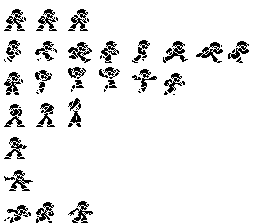
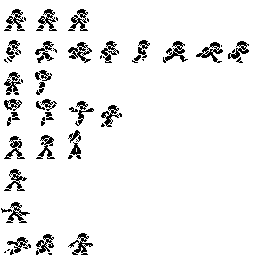
Improved jumping, character animation & added basic gravity flipping

diff --git a/Source/level.c b/Source/level.c
@@ -42,8 +42,8 @@ Level_t *level_load(const char *aFilename)
 	}
 
 	const char *bgmPath = tmx_mapGetPropertyNamed(map, "BGM");
-	if(bgmPath)
-		out->bgm = sound_load(bgmPath);
+	//if(bgmPath)
+		//out->bgm = sound_load(bgmPath);
 
 	TMXTileset_t *tileset = &map->tilesets[0];
 	Texture_t *tilesetTexture = texture_loadFromPng(tileset->imagePath, true, true);
@@ -57,7 +57,7 @@ Level_t *level_load(const char *aFilename)
 
 	// Create the collision world
 	vec2_t collisionWorldSize = { (float)out->size[0] * out->tileSize.w, (float)out->size[1] * out->tileSize.h };
-	out->collisionWorld = collision_createWorld(vec2_create(0.0f, -880.0f), collisionWorldSize, out->tileSize.w);
+	out->collisionWorld = collision_createWorld(vec2_create(0.0f, -980.0f), collisionWorldSize, out->tileSize.w);
 
 	TMXLayer_t *layer = tmx_mapGetLayerNamed(map, "blocks");
 	assert(layer);
@@ -93,15 +93,18 @@ Level_t *level_load(const char *aFilename)
 		TextureAtlas_t *atlas = texAtlas_create(texture_loadFromPng("levels/character.png", false, false), kVec2_zero, spriteSize);
 		out->character = character_create();
 
-		out->character->sprite = sprite_create(center, spriteSize, atlas, 7);
+		out->character->sprite = sprite_create(center, spriteSize, atlas, 8);
 		out->character->sprite->animations[0] = sprite_createAnimation(3);
 		out->character->sprite->animations[1] = sprite_createAnimation(1);
 		out->character->sprite->animations[2] = sprite_createAnimation(1);
 		out->character->sprite->animations[3] = sprite_createAnimation(3);
-		out->character->sprite->animations[4] = sprite_createAnimation(6);
-		out->character->sprite->animations[5] = sprite_createAnimation(8);
-		out->character->sprite->animations[6] = sprite_createAnimation(1);
-		out->character->sprite->activeAnimation = 6;
+		out->character->sprite->animations[4] = sprite_createAnimation(4);
+		out->character->sprite->animations[4].loops = false;
+		out->character->sprite->animations[5] = sprite_createAnimation(2);
+		out->character->sprite->animations[5].loops = false;
+		out->character->sprite->animations[6] = sprite_createAnimation(8);
+		out->character->sprite->animations[7] = sprite_createAnimation(1);
+		out->character->sprite->activeAnimation = 7;
 
 		vec2_t characterVerts[4] = {
 			{ center.x - 16.0f, center.y - 16.0f },
@@ -111,6 +114,7 @@ Level_t *level_load(const char *aFilename)
 		};
 
 		out->character->collisionObject = collision_createPolyObject(4, characterVerts, 0.0f, 0.0f);
+		out->character->collisionObject->info = out->character;
 	}
 	tmx_destroyMap(map);
 
@@ -181,8 +185,15 @@ void level_destroy(Level_t *aLevel)
 static void _level_draw(Renderer_t *aRenderer, void *aOwner, double aTimeSinceLastFrame, double aInterpolation)
 {
 	Level_t *level = (Level_t *)aOwner;
+	Character_t *character = level->character;
 
-	vec2_t center = vec2_floor(level->character->collisionObject->center); // Pixel aligned center
+	vec2_t characterLocation = character->collisionObject->center;
+	characterLocation = vec2_floor(vec2_add(characterLocation, vec2_scalarMul(character->collisionObject->velocity, aTimeSinceLastFrame)));
+
+	vec2_t center = vec2_sub(characterLocation, vec2_scalarDiv(aRenderer->viewportSize, 2.0));
+	center.x = CLAMP(center.x, 0.0f, level->size[0]*level->tileSize.w);
+	center.y = CLAMP(center.y, 0.0f, level->size[1]*level->tileSize.h);
+
 
 	// Draw the background
 	if(level->background) {
@@ -192,7 +203,7 @@ static void _level_draw(Renderer_t *aRenderer, void *aOwner, double aTimeSinceLa
 
 	// Translate to the location of the player
 	matrix_stack_push(aRenderer->worldMatrixStack);
-	matrix_stack_translate(aRenderer->worldMatrixStack, center.x*-1.0f + 200.0f, -1.0f*center.y + 180.0f, 0.0f);
+	matrix_stack_translate(aRenderer->worldMatrixStack, center.x*-1.0f, -1.0f*center.y, 0.0f);
 
 	// Draw the tiles
 	shader_makeActive(gTexturedShader);
@@ -222,11 +233,8 @@ static void _level_draw(Renderer_t *aRenderer, void *aOwner, double aTimeSinceLa
 
 
 	// Draw the character
-	static int count = 0;
 	if(level->character) {
-		if(count++ % 4 == 0)
-			sprite_step(level->character->sprite);
-		level->character->sprite->location = vec3_create(center.x, center.y, 0.0f);
+		level->character->sprite->location = vec3_create(characterLocation.x, characterLocation.y, 0.0f);
 		level->character->sprite->angle = level->character->collisionObject->orientation;
 		level->character->sprite->renderable.displayCallback(aRenderer, level->character->sprite, aTimeSinceLastFrame, aInterpolation);
 	}

diff --git a/Source/world.c b/Source/world.c
@@ -6,31 +6,58 @@
 static void downKeyPressed(InputManager_t *aInputManager, InputObserver_t *aInputObserver, vec2_t *aLocation, Input_state_t aState, void *metaData)
 {
 	World_t *world = (World_t *)metaData;
+	Character_t *character = world->level->character;
+	world->level->collisionWorld->gravity.y *= -1.0f;
+	if(character->collisionObject->inContact) {
+		character->sprite->animations[5].currentFrame = 0;
+		character->sprite->activeAnimation = 5;
+	}
 }
 static void upKeyPressed(InputManager_t *aInputManager, InputObserver_t *aInputObserver, vec2_t *aLocation, Input_state_t aState, void *metaData)
 {
 	World_t *world = (World_t *)metaData;
-	world->level->character->collisionObject->velocity.y = -0.5f * world->level->collisionWorld->gravity.y;
+	Character_t *character = world->level->character;
+	character->collisionObject->velocity.y = -0.5f * world->level->collisionWorld->gravity.y;
+	if(character->collisionObject->inContact) {
+		character->sprite->animations[5].currentFrame = 0;
+		character->sprite->activeAnimation = 5;
+	}
 }
 
 static void rightKeyPressed(InputManager_t *aInputManager, InputObserver_t *aInputObserver, vec2_t *aLocation, Input_state_t aState, void *metaData)
 {
 	World_t *world = (World_t *)metaData;
-	world->level->character->sprite->flippedHorizontally = false;
-	world->level->character->sprite->activeAnimation = aState == kInputState_down ? 5 : 6;
-	world->level->character->collisionObject->velocity.x = 280.0f;
+	vec2_t grav = world->level->collisionWorld->gravity;
+	world->level->character->sprite->flippedHorizontally = grav.y > 0.0f;
+	CollisionPolyObject_t *collObj = world->level->character->collisionObject;
+	if(world->level->character->collisionObject->inContact) {
+		world->level->character->sprite->activeAnimation = aState == kInputState_down ? 6 : 7;
+		collObj->velocity.x = 280.0f;
+	} else
+		collObj->velocity.x += 20.0f;
 }
+
 static void leftKeyPressed(InputManager_t *aInputManager, InputObserver_t *aInputObserver, vec2_t *aLocation, Input_state_t aState, void *metaData)
 {
 	World_t *world = (World_t *)metaData;
-	world->level->character->sprite->flippedHorizontally = true;
-	world->level->character->sprite->activeAnimation = aState == kInputState_down ? 5 : 6;
-	world->level->character->collisionObject->velocity.x = -280.0f;
+	vec2_t grav = world->level->collisionWorld->gravity;
+	world->level->character->sprite->flippedHorizontally = grav.y < 0.0f;
+	CollisionPolyObject_t *collObj = world->level->character->collisionObject;
+	if(world->level->character->collisionObject->inContact) {
+		world->level->character->sprite->activeAnimation = aState == kInputState_down ? 6 : 7;
+		collObj->velocity.x = -280.0f;
+	} else
+		collObj->velocity.x -= 20.0f;
+
 }
 
 static void characterCollided(CollisionWorld_t *aWorld, Collision_t collisionInfo)
 {
-	//debug_log("Character collided");
+	Character_t *character = (Character_t *)collisionInfo.objectA->info;
+	if(character->sprite->activeAnimation == 5) {
+		character->sprite->animations[4].currentFrame = 0;
+		character->sprite->activeAnimation = 4;
+	}
 }
 
 static void worldCollisionHappened(CollisionWorld_t *aWorld, Collision_t collisionInfo)
@@ -66,6 +93,7 @@ World_t *world_init()
 	out->ticks = 0;
 
 	out->level = level_load("levels/spacetest.tmx");
+	if(out->level->character) out->level->character->collisionObject->collisionCallback = characterCollided;
 	if(out->level->bgm) sound_play(out->level->bgm);
 	renderer_pushRenderable(gRenderer, &out->level->renderable);
 
@@ -108,8 +136,11 @@ void world_update(World_t *aWorld, double aTimeDelta)
 	++aWorld->ticks;
 
 	if(aWorld->level->character) {
+		if(aWorld->ticks % 2 == 0)
+			sprite_step(aWorld->level->character->sprite);
+
 		int timeSteps = 8;
 		for(int i = 0; i < timeSteps; ++i)
-			collision_step(aWorld->level->collisionWorld, aWorld->level->character->collisionObject, aTimeDelta/(float)timeSteps);
+			collision_step(aWorld->level->collisionWorld, aWorld->level->character->collisionObject, aTimeDelta/(double)timeSteps);
 	}
 }
